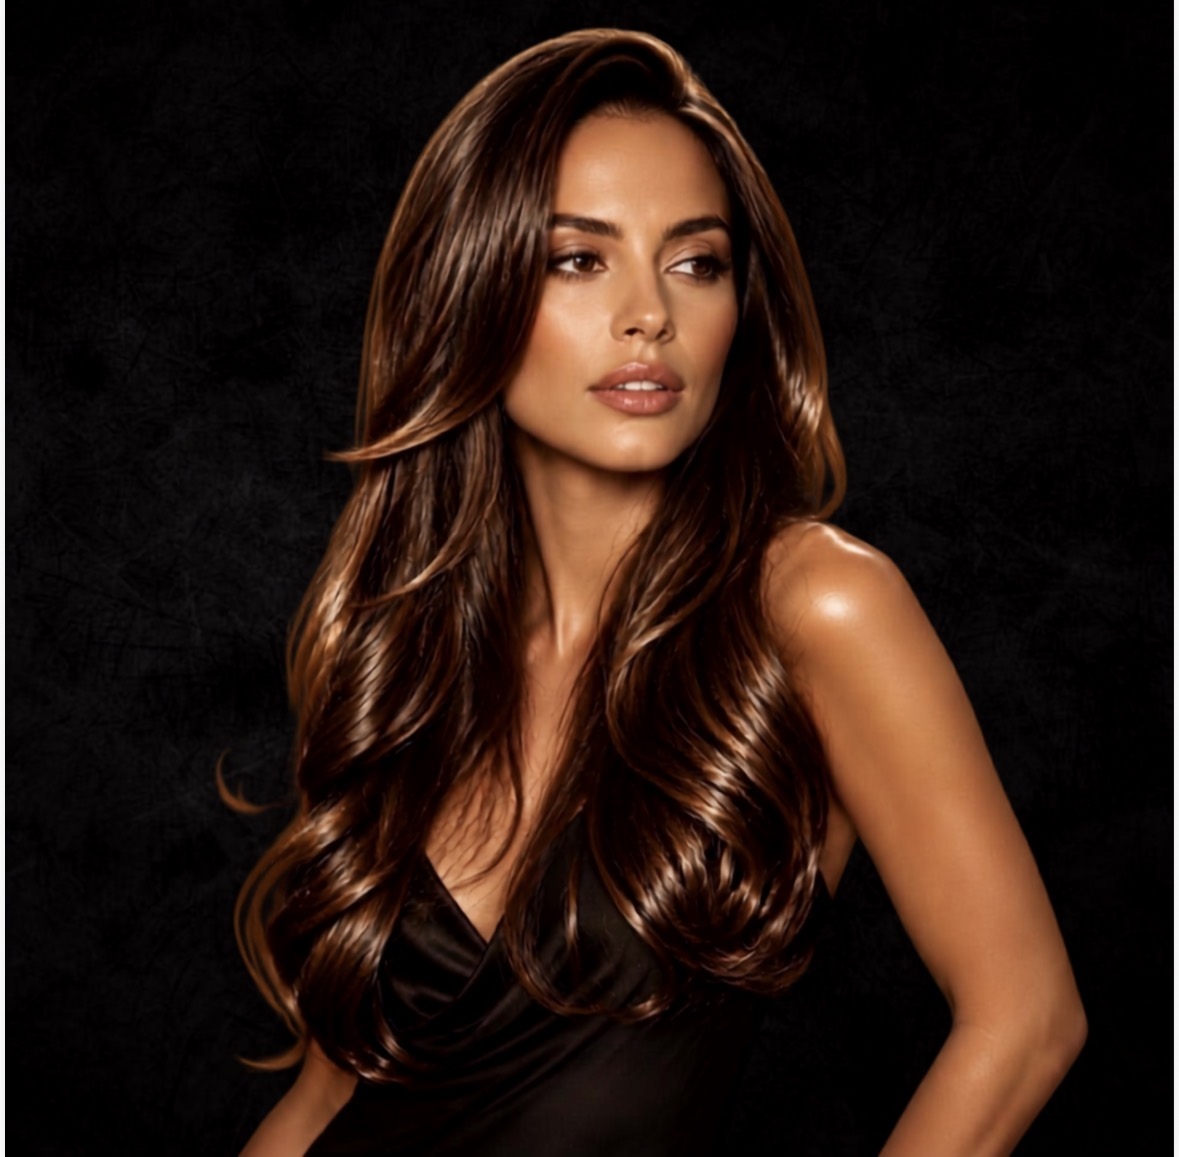
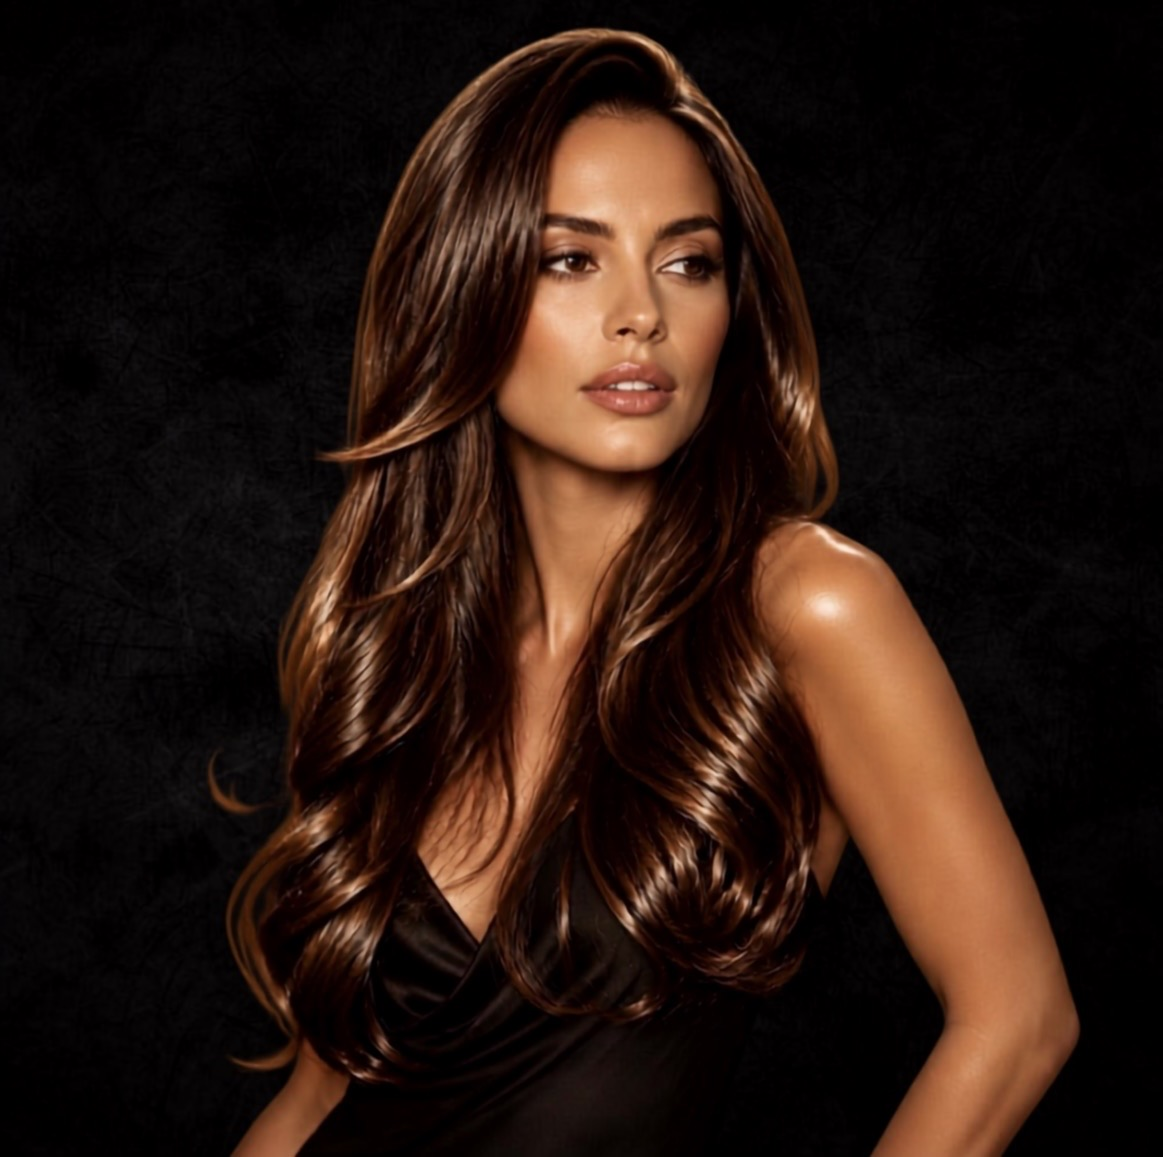
Replace defective Extended Care and Luxe Extension photos (white edge-line artifact)

diff --git a/index.html b/index.html
@@ -209,7 +209,7 @@
 
             <div class="book-unit" data-page="10" data-template="content" hidden>
               <div class="book-unit-photo">
-                <img src="assets/service-luxe-extension-integration.jpg?v=r2" alt="Model with long, full chestnut waves" width="1179" height="1157" loading="lazy">
+                <img src="assets/service-luxe-extension-integration.jpg?v=r2" alt="Model with long, full chestnut waves" width="1163" height="1157" loading="lazy">
               </div>
               <div class="book-unit-copy">
                 <span class="unit-dek">Add-On Enhancement</span>
@@ -246,7 +246,7 @@
 
             <div class="book-unit" data-page="13" data-template="content" hidden>
               <div class="book-unit-photo">
-                <img src="assets/service-extended-care.jpg?v=r2" alt="Model glancing over her shoulder with long, glossy chestnut waves" width="1179" height="1158" loading="lazy">
+                <img src="assets/service-extended-care.jpg?v=r2" alt="Model glancing over her shoulder with long, glossy chestnut waves" width="1159" height="1162" loading="lazy">
               </div>
               <div class="book-unit-copy">
                 <span class="unit-dek">Add-On Enhancement</span>

diff --git a/lookbook.html b/lookbook.html
@@ -214,7 +214,7 @@
 
           <article class="lookbook-card">
             <div class="card-photo">
-              <img src="assets/service-luxe-extension-integration.jpg?v=r2" alt="Model with long, full chestnut waves" width="1179" height="1157" decoding="async">
+              <img src="assets/service-luxe-extension-integration.jpg?v=r2" alt="Model with long, full chestnut waves" width="1163" height="1157" decoding="async">
             </div>
             <div class="card-body">
               <span class="card-dek">Add-On Enhancement</span>
@@ -270,7 +270,7 @@
 
           <article class="lookbook-card">
             <div class="card-photo">
-              <img src="assets/service-extended-care.jpg?v=r2" alt="Model glancing over her shoulder with long, glossy chestnut waves" width="1179" height="1158" decoding="async">
+              <img src="assets/service-extended-care.jpg?v=r2" alt="Model glancing over her shoulder with long, glossy chestnut waves" width="1159" height="1162" decoding="async">
             </div>
             <div class="card-body">
               <span class="card-dek">Add-On Enhancement</span>
